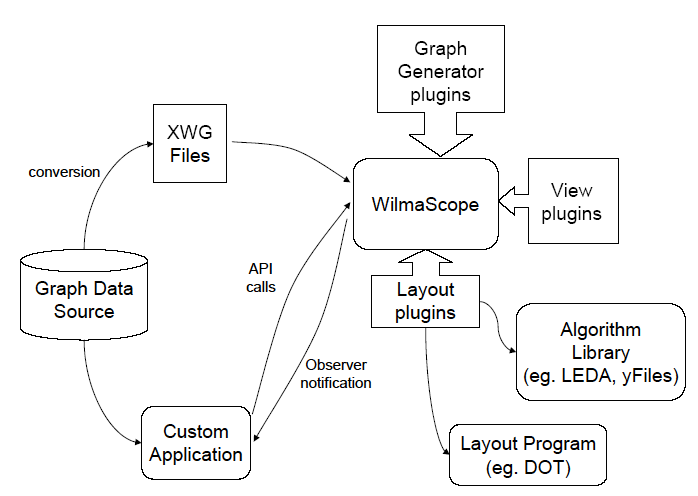
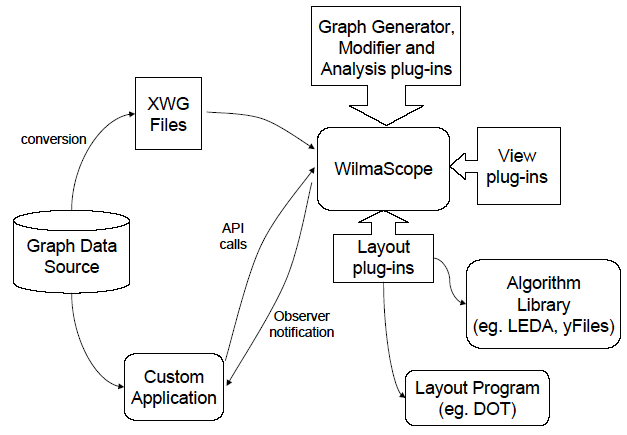
*** empty log message ***

diff --git a/doc/ExtendingWilmaScope.html b/doc/ExtendingWilmaScope.html
@@ -31,8 +31,11 @@ Framework</a></li>
     <li><a href="#Example_%3F_Random_Graph_Generator">Example &#8211; Random
 Graph Generator</a> </li>
   </ul>
-  <li><a href="#Creating_Applications_Based_on">Creating Applications
-Based on GraphCanvas</a></li>
+  <li><a href="#Creating_Applications_Based_on">Plug-ins for Modifying
+Graphs or Clusters<br>
+    </a></li>
+  <li><a href="#Plug-ins_for_Performing_GraphCluster">Plug-ins for
+Performing Graph/Cluster Analysis</a></li>
   <li><a href="#File_Formats">File Formats</a> </li>
   <ul>
     <li><a href="#XML_Wilma_Graph_XWG_File_Format">XML Wilma Graph (XWG)</a>
@@ -161,7 +164,11 @@ procedure for
 constructing a graph by implementing the GraphGenerator framework (see <a
  href="ExtendingWilmaScope.html#Creating_Test_Graphs">Creating Test
 Graphs</a>).</li>
-  <li>&lt;&gt;New layout algorithms can also be added as plugins by
+  <li>Similarly, modifier and analysis plug-ins can be created,
+respectively for modifying the structure of a graph or for mapping
+graph analysis methods to visual properties.<br>
+  </li>
+  <li>New layout algorithms can also be added as plugins by
 extending
 the WilmaScope <a
  href="ExtendingWilmaScope.html#Creating_New_Layout_Engines">LayoutEngine
@@ -177,14 +184,13 @@ WilmaScope GraphCanvas and API in a custom GUI (see <a
  href="ExtendingWilmaScope.html#Creating_Applications_Based_on">Creating
 Applications Based on GraphCanvas</a> and
 also the <a href="index.html">WilmaScope Javadoc</a>).</li>
-&lt;&gt;<li>A user can interact with the WilmaScope GUI to add or edit
+  <li>A user can interact with the WilmaScope GUI to add or edit
 graph
 components (see the user help documentation).</li>
 </ul>
 <div style="text-align: center;"><img
  alt="Different ways of using Wilma"
- src="ExtendingWilmaScope_files/wilmausage.png"
- style="width: 698px; height: 496px;"><br>
+ src="ExtendingWilmaScope_files/wilmausage.png"><br>
 Figure 2b: Different ways to use Wilma for custom applications<br>
 </div>
 <br>
@@ -232,10 +238,10 @@ extending WilmaScope.&nbsp; Instead, the API methods for creating or
 updating a graph are provided by the <a
  href="org/wilmascope/control/GraphControl.html">GraphControl </a>class.&nbsp;
 GraphControl defines facades (or simplified classes) as inner classes:
-ie, <a href="org/wilmascope/control/GraphControl.NodeFacade.html">GraphControl.NodeFacade</a>,
-<a href="org/wilmascope/control/GraphControl.EdgeFacade.html">GraphControl.EdgeFacade</a>
+ie, <a href="org/wilmascope/control/GraphControl.Node.html">GraphControl.Node</a>,
+<a href="org/wilmascope/control/GraphControl.Edge.html">GraphControl.Edge</a>
 and
-<a href="org/wilmascope/control/GraphControl.ClusterFacade.html">GraphControl.ClusterFacade</a>.&nbsp;
+<a href="org/wilmascope/control/GraphControl.Cluster.html">GraphControl.Cluster</a>.&nbsp;
 When a GraphControl object is
 instantiated a root cluster is created upon which a graph may be
 built.&nbsp; As a basic example consider the following code fragment:<br>
@@ -399,8 +405,8 @@ selecting "Modify Cluster" from the resultant cluster options menu</li>
  style="width: 600px; height: 490px;"><br>
 <br>
 <div style="text-align: left;">As of writing this document WilmaScope
-includes the following graph modifier plug-ins:<br>
-<br>
+includes the following graph modifier plug-ins (found in
+org.wilmascope.graphmodifier.plugin):<br>
 <ul>
   <li>ChangeViews - replace the GraphElementViews of nodes and/or edges
 with the current default settings from the toolbar.</li>
@@ -415,8 +421,35 @@ together in the current layout</li>
 edges are monotonically directed (uses DirectedCycleRemoval).<br>
   </li>
 </ul>
+<h2><a name="Plug-ins_for_Performing_GraphCluster"></a>Plug-ins for
+Performing Graph/Cluster Analysis</h2>
+The GraphAnalysis plug-in framework works in a similar way to
+GraphModifier plugins, but GraphAnalysis plug-ins are not expected to
+modify the structure or attributes of a graph directly.&nbsp; Rather,
+they should set a property in nodes and edges corresponding to the name
+of the plugin (the string returned by the getName method) with a
+floating point value that can be mapped by other classes to visual
+attributes (for example, the VisualMapping classes defined in the
+org.wilmascope.graphanalysis package).<br>
 <br>
+A graph analysis plug-in must extend the
+org.wilmascope.graphanalysis.GraphAnalysis class, implementing the
+getName and analyse methods.&nbsp; As with GraphModifier getName simply
+returns a descriptive string.&nbsp; The analyse method takes no
+argument.&nbsp; Rather, you must use getCluster() to operate on the
+cluster in the analyse method.&nbsp; For example:<br>
+<pre>/**<br> * Calculate degree centrality for each node, ie for node v in V:<br> * degreecentrality(v) = degree(v)/max(degree(w)|w in V)<br> * <br> * @author dwyer<br> */<br>public class DegreeCentrality extends GraphAnalysis {<br><br>  public String getName() {<br>    return "Degree Centrality";<br>  }<br>  <br>  /*<br>   * @see org.wilmascope.graphanalysis.GraphAnalysis#analyse(org.wilmascope.control.GraphControl.Cluster)<br>   */<br>  public void analyse() {<br>    int maxDegree = 0;<br>    for (Node n : getCluster().getNodes()) {<br>      int degree = n.getDegree();<br>      if (degree &gt; maxDegree) {<br>        maxDegree = degree;<br>      }<br>    }<br>    if (maxDegree &gt; 0) {<br>      for (Node n : getCluster().getNodes()) {<br>        float degreeCentrality = (float) n.getDegree() / (float) maxDegree;<br>        n.getProperties().setProperty(getName(), "" + degreeCentrality);<br>      }<br>    }<br>  }<br>}<br></pre>
+There is no need for a getControls method in GraphAnalysis
+plug-ins.&nbsp; By default an instance of AnalysisPanel is created by
+the super class.&nbsp; AnalysisPanel allows a user to choose visual
+mappings for the results of the analysis, and appears in the Graph
+Analysis window, shown below with a number of mappings defined for
+various analysis plugins:<br>
 <br>
+<div style="text-align: center;"><img alt="analysis mappings example"
+ src="ExtendingWilmaScope_files/analysismappings.png"
+ style="width: 565px; height: 514px;"><br>
+</div>
 </div>
 </div>
 <h2><a name="File_Formats"></a>File Formats</h2>
@@ -812,38 +845,171 @@ File Format file format. Better support is planned.<br>
 Element Glyphs</h2>
 <h2><a name="Creating_New_Layout_Engines"></a>Creating New Layout
 Engines</h2>
-To create a new layout engine plugin, a developer must implement the
-LayoutEngine interface below, and also extend the NodeLayout and
+To create a new layout engine plugin, a developer must extend the
+LayoutEngine abstract class, and also extend the NodeLayout and
 EdgeLayout abstract classes which are used to store any layout specific
-properties for nodes and edges.<br>
-<pre><i><font color="#b22222">/**<br> * Classes which determine layout for a particular cluster must implement this<br> * interface.<br> *<br> * @author Tim Dwyer<br> * @version $Id$<br> *<br> */</font></i><br><b><font
- color="#a020f0">public</font></b> <b><font color="#a020f0">interface</font></b> LayoutEngine&lt;N <b><font
- color="#a020f0">extends</font></b> NodeLayout,E <b><font
- color="#a020f0">extends</font></b> EdgeLayout&gt; {<br>  <i><font
- color="#b22222">/**<br>   * calculate the changes required to move the graph to a nicer layout.  This method<br>   * does not actually update the position of the nodes, rather this should be done by the<br>   * {@link #applyLayout} method.  Potentially, this means that<br>   * the caller can calculate new positions (stored in the NodeLayouts), then opt not to<br>   * apply the changes if it does not lead to an improvement.  <br>   * In practice this has not yet been utilised and such<br>   * decisions are usually made internally to the layout engine.<br>   */</font></i><br>  <b><font
- color="#a020f0">public</font></b> <b><font color="#a020f0">void</font></b> calculateLayout();<br>  <i><font
- color="#b22222">/**<br>   * apply the changes calculated by<br>   * {@link #calculateLayout}<br>   * @return true when a stable state is reached<br>   */</font></i><br>  <b><font
- color="#a020f0">public</font></b> <b><font color="#a020f0">boolean</font></b> applyLayout();<br>  <i><font
- color="#b22222">/**<br>   * Return a string descriptor for the layout engine type.  Useful in GUI elements<br>   * such as comboboxes<br>   */</font></i><br>  <b><font
- color="#a020f0">public</font></b> String getName();<br>  <i><font
- color="#b22222">/**<br>   * Factory method to create a new NodeLayout implementation compatible with<br>   * the layout engine implementing this interface.<br>   */</font></i><br>  <b><font
- color="#a020f0">public</font></b> N createNodeLayout(Node n);<br>  <i><font
- color="#b22222">/**<br>   * Factory method to create a new EdgeLayout implementation compatible with<br>   * the layout engine implementing this interface.<br>   */</font></i><br>  <b><font
- color="#a020f0">public</font></b> E createEdgeLayout(Edge e);<br>  <b><font
- color="#a020f0">public</font></b> Properties getProperties();<br>  <b><font
- color="#a020f0">public</font></b> <b><font color="#a020f0">void</font></b> setProperties(Properties p);<br>  <b><font
- color="#a020f0">public</font></b> JPanel getControls();<br>  <i><font
- color="#b22222">/**<br>   * The LayoutEngine should have no constructor.  It should be initialised with this method.<br>   */</font></i><br>  <b><font
- color="#a020f0">public</font></b> <b><font color="#a020f0">void</font></b> init(Cluster root);<br>}<br><br></pre>
-Once these classes have been defined and compiled you should add the
+properties for nodes and edges.&nbsp; For example, here is the code for
+the RandomLayout class:<br>
+<span style="font-family: monospace;"><br>
+package org.wilmascope.randomlayout;<br>
+<br>
+import javax.swing.JPanel;<br>
+<br>
+import org.wilmascope.global.RandomGenerator;<br>
+import org.wilmascope.graph.Edge;<br>
+import org.wilmascope.graph.EdgeLayout;<br>
+import org.wilmascope.graph.LayoutEngine;<br>
+import org.wilmascope.graph.Node;<br>
+import org.wilmascope.graph.NodeLayout;<br>
+<br>
+<span style="color: rgb(0, 153, 0);">/**</span><br
+ style="color: rgb(0, 153, 0);">
+<span style="color: rgb(0, 153, 0);">&nbsp;* Assigns random positions
+to nodes. This is the simplest possible layout</span><br
+ style="color: rgb(0, 153, 0);">
+<span style="color: rgb(0, 153, 0);">&nbsp;* algorithm I can think of.
+Use this as a starting point for creating your own</span><br
+ style="color: rgb(0, 153, 0);">
+<span style="color: rgb(0, 153, 0);">&nbsp;* layout engines.</span><br
+ style="color: rgb(0, 153, 0);">
+<span style="color: rgb(0, 153, 0);">&nbsp;* </span><br
+ style="color: rgb(0, 153, 0);">
+<span style="color: rgb(0, 153, 0);">&nbsp;* @author dwyer</span><br
+ style="color: rgb(0, 153, 0);">
+<span style="color: rgb(0, 153, 0);">&nbsp;*/</span><br>
+public class RandomLayout extends LayoutEngine&lt;RandomNode,
+RandomEdge&gt; {<br>
+<br>
+<span style="color: rgb(0, 153, 0);">&nbsp; /*</span><br
+ style="color: rgb(0, 153, 0);">
+<span style="color: rgb(0, 153, 0);">&nbsp;&nbsp; * This method always
+returns true because this layout can be completed in one</span><br
+ style="color: rgb(0, 153, 0);">
+<span style="color: rgb(0, 153, 0);">&nbsp;&nbsp; * step. An iterative
+algorithm could return false until complete.</span><br
+ style="color: rgb(0, 153, 0);">
+<span style="color: rgb(0, 153, 0);">&nbsp;&nbsp; * </span><br
+ style="color: rgb(0, 153, 0);">
+<span style="color: rgb(0, 153, 0);">&nbsp;&nbsp; * @see
+org.wilmascope.graph.LayoutEngine#applyLayout()</span><br
+ style="color: rgb(0, 153, 0);">
+<span style="color: rgb(0, 153, 0);">&nbsp;&nbsp; */</span><br>
+&nbsp; public boolean applyLayout() {<br>
+&nbsp;&nbsp;&nbsp; for (Node n : getRoot().getNodes()) {<br>
+&nbsp;&nbsp;&nbsp;&nbsp;&nbsp;
+n.setPosition(RandomGenerator.getPoint3f());<br>
+&nbsp;&nbsp;&nbsp; }<br>
+&nbsp;&nbsp;&nbsp; return true;<br>
+&nbsp; }<br>
+<br>
+<span style="color: rgb(0, 153, 0);">&nbsp; /*</span><br
+ style="color: rgb(0, 153, 0);">
+<span style="color: rgb(0, 153, 0);">&nbsp;&nbsp; * Name to appear in
+the layout menu.</span><br style="color: rgb(0, 153, 0);">
+<span style="color: rgb(0, 153, 0);">&nbsp;&nbsp; * </span><br
+ style="color: rgb(0, 153, 0);">
+<span style="color: rgb(0, 153, 0);">&nbsp;&nbsp; * @see
+org.wilmascope.graph.LayoutEngine#getName()</span><br
+ style="color: rgb(0, 153, 0);">
+<span style="color: rgb(0, 153, 0);">&nbsp;&nbsp; */</span><br
+ style="color: rgb(0, 153, 0);">
+&nbsp; public String getName() {<br>
+&nbsp;&nbsp;&nbsp; return "Random";<br>
+&nbsp; }<br>
+<br>
+<span style="color: rgb(0, 153, 0);">&nbsp; /*</span><br
+ style="color: rgb(0, 153, 0);">
+<span style="color: rgb(0, 153, 0);">&nbsp;&nbsp; * called by
+super.init when layout instantiated</span><br
+ style="color: rgb(0, 153, 0);">
+<span style="color: rgb(0, 153, 0);">&nbsp;&nbsp; * </span><br
+ style="color: rgb(0, 153, 0);">
+<span style="color: rgb(0, 153, 0);">&nbsp;&nbsp; * @see
+org.wilmascope.graph.LayoutEngine#createNodeLayout(org.wilmascope.graph.Node)</span><br
+ style="color: rgb(0, 153, 0);">
+<span style="color: rgb(0, 153, 0);">&nbsp;&nbsp; */</span><br
+ style="color: rgb(0, 153, 0);">
+&nbsp; public RandomNode createNodeLayout(Node n) {<br>
+&nbsp;&nbsp;&nbsp; return new RandomNode();<br>
+&nbsp; }<br>
+<br>
+<span style="color: rgb(0, 153, 0);">&nbsp; /*</span><br
+ style="color: rgb(0, 153, 0);">
+<span style="color: rgb(0, 153, 0);">&nbsp;&nbsp; * called by
+super.init when layout instantiated</span><br
+ style="color: rgb(0, 153, 0);">
+<span style="color: rgb(0, 153, 0);">&nbsp;&nbsp; * </span><br
+ style="color: rgb(0, 153, 0);">
+<span style="color: rgb(0, 153, 0);">&nbsp;&nbsp; * @see
+org.wilmascope.graph.LayoutEngine#createEdgeLayout(org.wilmascope.graph.Edge)</span><br
+ style="color: rgb(0, 153, 0);">
+<span style="color: rgb(0, 153, 0);">&nbsp;&nbsp; */</span><br>
+&nbsp; public RandomEdge createEdgeLayout(Edge e) {<br>
+&nbsp;&nbsp;&nbsp; return new RandomEdge();<br>
+&nbsp; }<br>
+<br>
+<span style="color: rgb(0, 153, 0);">&nbsp; /*</span><br
+ style="color: rgb(0, 153, 0);">
+<span style="color: rgb(0, 153, 0);">&nbsp;&nbsp; * Potentially we
+could create a control panel in the constructor to be</span><br
+ style="color: rgb(0, 153, 0);">
+<span style="color: rgb(0, 153, 0);">&nbsp;&nbsp; * returned here. Such
+a control panel would allow the user to set various</span><br
+ style="color: rgb(0, 153, 0);">
+<span style="color: rgb(0, 153, 0);">&nbsp;&nbsp; * layout properties.</span><br
+ style="color: rgb(0, 153, 0);">
+<span style="color: rgb(0, 153, 0);">&nbsp;&nbsp; * </span><br
+ style="color: rgb(0, 153, 0);">
+<span style="color: rgb(0, 153, 0);">&nbsp;&nbsp; * @see
+org.wilmascope.graph.LayoutEngine#getControls()</span><br
+ style="color: rgb(0, 153, 0);">
+<span style="color: rgb(0, 153, 0);">&nbsp;&nbsp; */</span><br
+ style="color: rgb(0, 153, 0);">
+&nbsp; public JPanel getControls() {<br>
+&nbsp;&nbsp;&nbsp; return new JPanel();<br>
+&nbsp; }<br>
+<br>
+}<br>
+<span style="color: rgb(0, 153, 0);">/**</span><br
+ style="color: rgb(0, 153, 0);">
+<span style="color: rgb(0, 153, 0);">&nbsp;* When the layout engine is
+instatiated, instances of this classes are assigned</span><br
+ style="color: rgb(0, 153, 0);">
+<span style="color: rgb(0, 153, 0);">&nbsp;* to all nodes in the root
+cluster. You can store node data specific to your</span><br
+ style="color: rgb(0, 153, 0);">
+<span style="color: rgb(0, 153, 0);">&nbsp;* layout in here.</span><br
+ style="color: rgb(0, 153, 0);">
+<span style="color: rgb(0, 153, 0);">&nbsp;*/</span><br>
+class RandomNode extends NodeLayout {<br>
+}<br>
+<br>
+<span style="color: rgb(0, 153, 0);">/**</span><br
+ style="color: rgb(0, 153, 0);">
+<span style="color: rgb(0, 153, 0);">&nbsp;* When the layout engine is
+instatiated, instances of the following class are</span><br
+ style="color: rgb(0, 153, 0);">
+<span style="color: rgb(0, 153, 0);">&nbsp;* assigned to all edges in
+the root cluster. You can store edge data specific</span><br
+ style="color: rgb(0, 153, 0);">
+<span style="color: rgb(0, 153, 0);">&nbsp;* to your layout here.</span><br
+ style="color: rgb(0, 153, 0);">
+<span style="color: rgb(0, 153, 0);">&nbsp;*/</span><br>
+class RandomEdge extends EdgeLayout {<br>
+}<br>
+<br>
+<br>
+</span>Once these classes have been defined and compiled you should add
+the
 fully qualified path for your LayoutEngine class to the
 WILMA_CONSTANTS.properties file, and optionally set it as the default
 layout, eg:<br>
-<pre>LayoutPlugins=org.wilmascope.forcelayout.ForceLayout,org.wilmascope.multiscalelayout.MultiScaleLayout,org.wilmascope.fastlayout.FastLayout,org.wilmascope.fadelayout.FadeLayout,org.wilmascope.highdimensionlayout.HighDimensionLayout,org.wilmascope.degreelayout.DegreeLayout</pre>
-<pre>DefaultLayout=Force Directed</pre>
-Then, run WilmaScope, ensuring the path to your new classes is added to
+<pre>LayoutPlugins=org.wilmascope.forcelayout.ForceLayout,....,org.wilmascope.randomlayout.RandomLayout</pre>
+<pre>DefaultLayout=Random</pre>
+Then, run WilmaScope, ensuring the path to your new classes and your
+copy of the WILMA_CONSTANTS.properties file are added to
 the classpath, eg:<br>
-<pre>java -cp %WILMA_HOME%/lib;%PATH_TO_YOUR_LAYOUT_CLASS% -jar %WILMA_HOME%/lib/wilma.jar</pre>
+<pre>java -cp %PATH_TO_YOUR_COPY_OF_WILMA_CONSTANTS_FILE%;%PATH_TO_YOUR_LAYOUT_CLASS% <br>     -jar %WILMA_HOME%/lib/wilma.jar</pre>
 <h2><a name="Getting_the_WilmaScope_Source_Code"></a>Getting the
 WilmaScope Source Code</h2>
 As
@@ -881,8 +1047,12 @@ settings: </li>
   <li>Navigate into
 :pserver:anonymous@cvs.sourceforge.net:/cvsroot/wilma
 &gt; HEAD and check out the "Wilma" module (Select "Wilma" and right
-click &gt; Check Out as Project).&nbsp; Note that "WilmaScope" and
-"WilmaToo" are both obsolete. </li>
+click &gt; Check Out as Project).</li>
+  <li>To compile: set the compiler compliance settings to 5.0, ensure
+that all jars in the %WILMA_HOME%/lib dir are included in the class path</li>
+  <li>To run: ensure that lib dir and all jars in lib dir are in class
+path.<br>
+  </li>
 </ul>
 <h2><a name="Code_Conventions"></a>Code Conventions</h2>
 </body>
